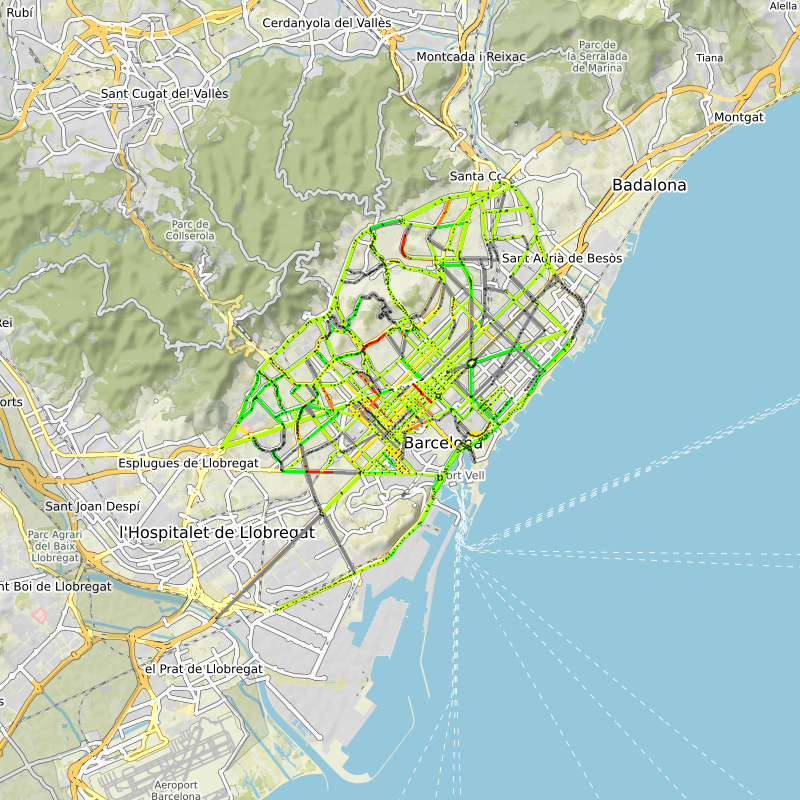
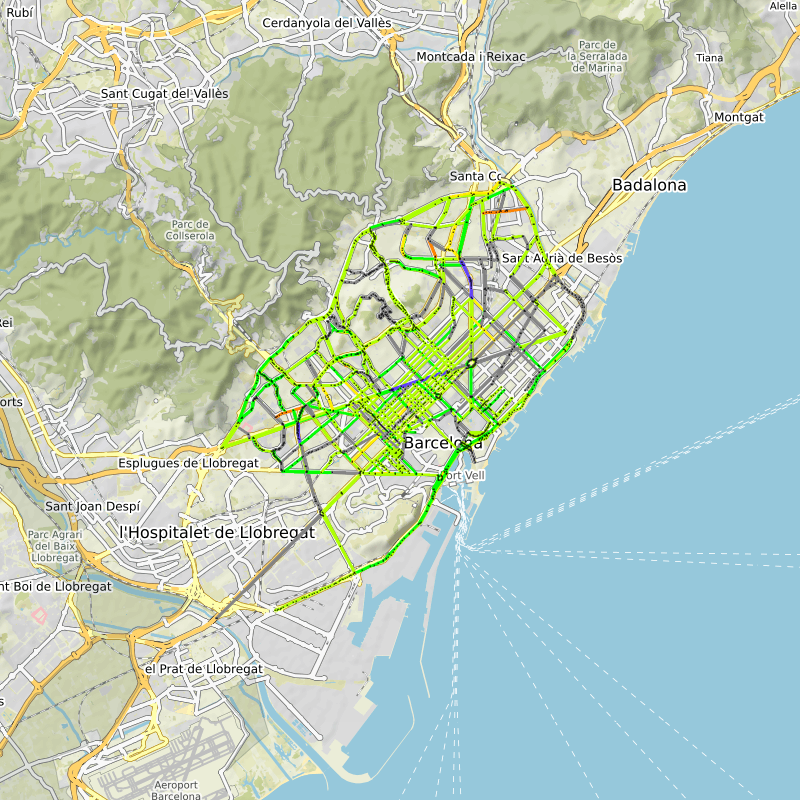
update

diff --git a/igo-test.py b/igo-test.py
@@ -15,31 +15,105 @@ complete_data = build_complete_traffic_data(highways, congestions)
 plot_graph(graph)
 plot_highways(highways)
 plot_congestions(complete_data)
+# %%
 
+
+def plot_path(graph, path):
+    orig = path[0]
+    dest = path[len(path)-1]
+    node_colors = list()
+    for node in graph.nodes:
+        if node == orig or node == dest:
+            node_colors.append('green')
+        elif node in path:
+            node_colors.append('red')
+        else:
+            node_colors.append('white')
+    ox.plot_graph(graph, figsize=(20, 20), node_size=3,
+                  node_color=node_colors, show=False, save=True, filepath='tmp_path.png')
 
 # %%
-def map_data_to_graph(data, graph: nx.MultiDiGraph):
-    # for dd in data:
-    dd = data[int(len(data)/2)]
-    print('estem al carrer', dd.name, sep=' ')
-    coord = dd.coordinates
+
+
+def prop(tdata: Traffic_data, graph):
+    coord = tdata.coordinates
     l = len(coord)
-    print('    passa pels següents nodes:')
     edge_nodes_lat = list()
     edge_nodes_lng = list()
     for i in range(0, l, 2):
         edge_nodes_lat.append(coord[i])
         edge_nodes_lng.append(coord[i+1])
-        # c1 = coord[i]
-        # c2 = coord[i+1]
     nn = ox.nearest_nodes(graph, edge_nodes_lat, edge_nodes_lng)
-    node_colors = [
-        'red' if node in nn else 'white' for node in graph.nodes]
-    print(node_colors.index('red'))
-    for node in nn:
-        print('     -->', node)
-    ox.plot_graph(graph, node_color=node_colors, node_size=3, figsize=(800,800))
+    for i in range(1, len(nn)):
+        orig = nn[i]
+        dest = nn[i-1]
+        path = ox.shortest_path(graph, orig, dest, weight='length')
+        # print(path)
+        # plot_path(graph, path)
+        return
     return
+
+# %%
+
+
+def _set_congestion(tdata: Traffic_data, graph):
+    coord = tdata.coordinates
+    l = len(coord)
+    edge_nodes_lat = list()
+    edge_nodes_lng = list()
+    stupid_nodes = list()
+    for i in range(0, l, 2):
+        edge_nodes_lat.append(coord[i])
+        edge_nodes_lng.append(coord[i+1])
+    nn = ox.nearest_nodes(graph, edge_nodes_lat, edge_nodes_lng)
+    for i in range(1, len(nn)):
+        orig = nn[i-1]
+        dest = nn[i]
+        # print('hola', orig, dest, sep=' ')
+        try:
+            path = ox.shortest_path(graph, orig, dest, weight='length')
+        except:
+            try:
+                path = ox.shortest_path(graph, dest, orig, weight='length')
+            except:
+                print(
+                    'no he trobat cap camí entre {a} i {b} :('.format(a=orig, b=dest))
+                stupid_nodes.append(orig)
+                stupid_nodes.append(dest)
+        # print('adeu', orig, dest, sep=' ')
+        for i in range(1, len(path)):
+            a = path[i-1]
+            b = path[i]
+            graph.adj[a][b][0]['congestion'] = tdata.state
+    return stupid_nodes
+
+
+def build_igraph(graph, traffic_data):
+    nx.set_edge_attributes(graph, name='congestion', values=None)
+    stupid_nodes_2 = list()
+    for data in traffic_data:
+        test = _set_congestion(data, graph)
+        stupid_nodes_2.append(test)
+    return stupid_nodes_2
+
+
+# %%
+non_nodes = build_igraph(graph, complete_data)
+node_colors = list()
+for node in graph.nodes:
+    if node in non_nodes:
+        node_colors.append('purple')
+    else:
+        node_colors.append('white')
+
+edge_colors = list()
+for edge, info in graph.edges.items():
+    if info['congestion'] is not None:
+        edge_colors.append(color_decide(info['congestion']))
+    else:
+        edge_colors.append('white')
+ox.plot_graph(graph, figsize=(20, 20), node_size=3, node_color=node_colors,
+              edge_color=edge_colors, save=True, filepath='tmp_tmp_tmp.png')
 
 # %%
 

diff --git a/igo.py b/igo.py
@@ -1,5 +1,6 @@
 import pickle
 import networkx as nx
+from networkx.algorithms.clique import graph_number_of_cliques
 import osmnx as ox
 import csv
 import urllib
@@ -122,6 +123,8 @@ def color_decide(state):
         return '#ff8000'
     if state == 5:
         return '#ff1100'
+    if state == 6 or state == None:
+        return '#6042f5'
 
 
 def plot_congestions(traffic_data, img_filename='tmp_congestion_plot.png', size=800):
@@ -139,8 +142,37 @@ def plot_congestions(traffic_data, img_filename='tmp_congestion_plot.png', size=
     image.save(img_filename)
 
 
+def _set_congestion(tdata: Traffic_data, graph):
+    coord = tdata.coordinates
+    l = len(coord)
+    edge_nodes_lat = list()
+    edge_nodes_lng = list()
+    for i in range(0, l, 2):
+        edge_nodes_lat.append(coord[i])
+        edge_nodes_lng.append(coord[i+1])
+    nn = ox.nearest_nodes(graph, edge_nodes_lat, edge_nodes_lng)
+    for i in range(1, len(nn)):
+        orig = nn[i-1]
+        dest = nn[i]
+        try:
+            path = ox.shortest_path(graph, orig, dest, weight='length')
+        except:
+            try:
+                path = ox.shortest_path(graph, dest, orig, weight='length')
+            except:
+                print(
+                    'no he trobat cap camí entre {a} i {b} :('.format(a=orig, b=dest))
+        for i in range(1, len(path)):
+            a = path[i-1]
+            b = path[i]
+            graph.adj[a][b][0]['congestion'] = tdata.state
+    return
+
+
 def build_igraph(graph, traffic_data):
-    pass
+    nx.set_edge_attributes(graph, name='congestion', values=None)
+    for data in traffic_data:
+        _set_congestion(data, graph)
 
 
 def plot_path(igraph, ipath, img_filename, size):
